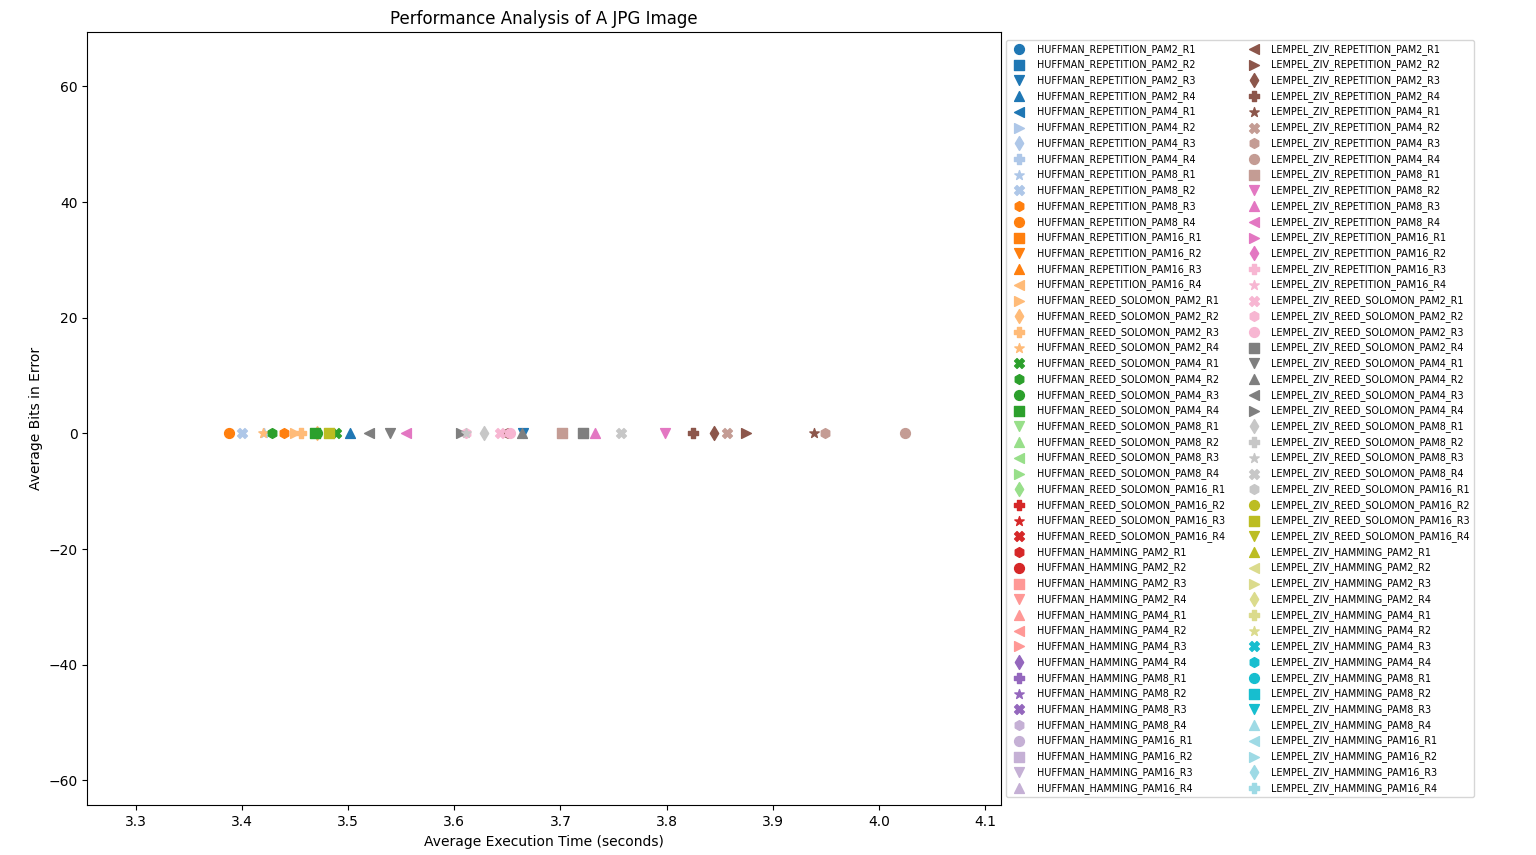
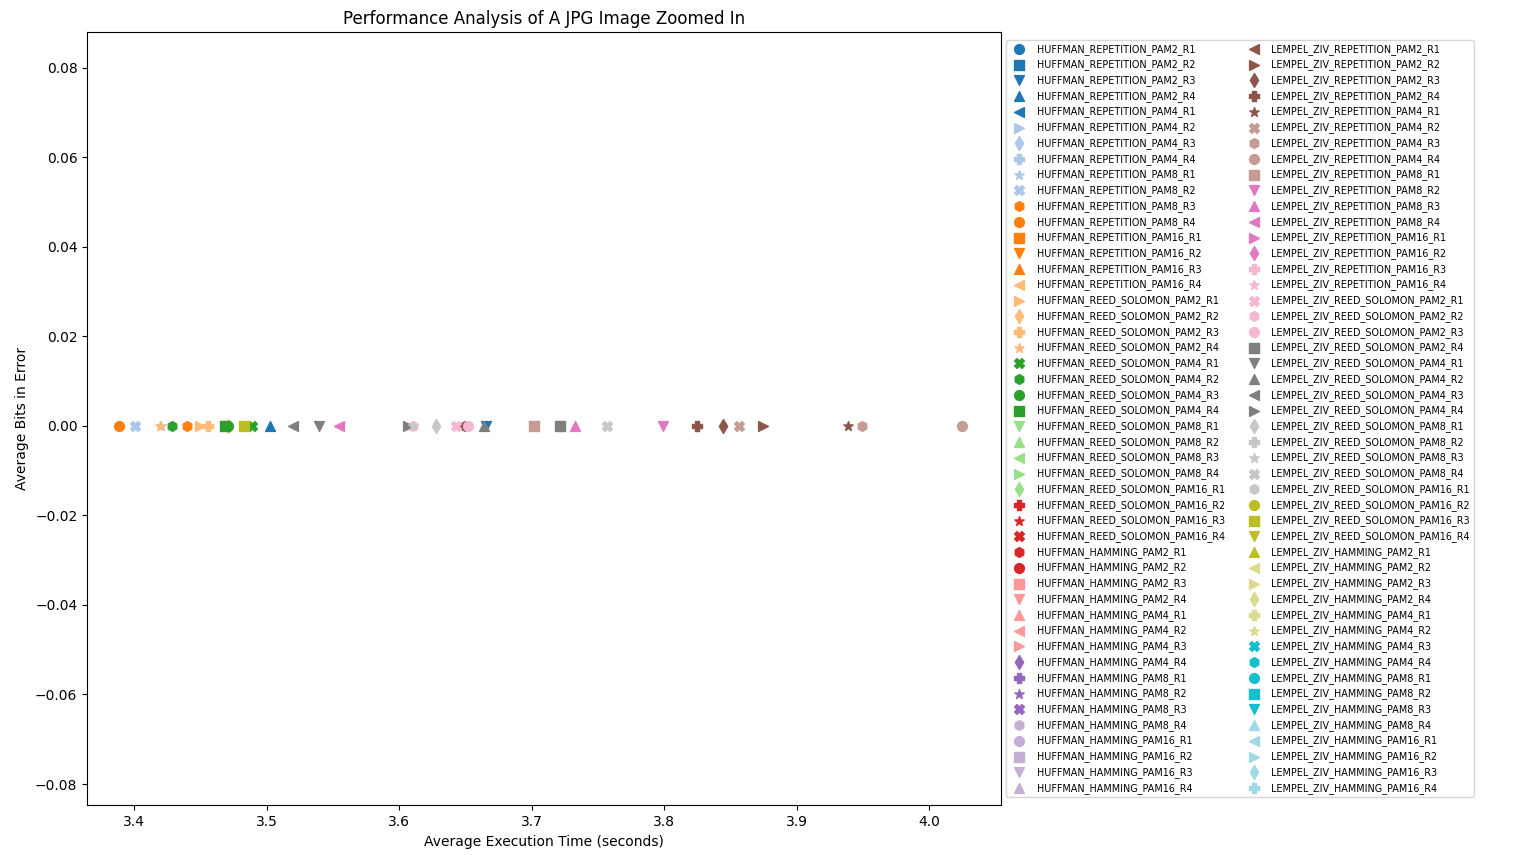
added zoomed in performance analysis graphs

diff --git a/analyze.py b/analyze.py
@@ -95,13 +95,13 @@ def create_scatter_plot(csv_file_path, graph_title):
 print("======")
 print("IMAGE")
 print("======")
-create_scatter_plot('./recieved_files/small_image.jpg_performance.csv', 'Performance Analysis of A JPG Image')
+create_scatter_plot('./recieved_files/small_image.jpg_performance.csv', 'Performance Analysis of A JPG Image Zoomed In')
 print("======")
 print("TEXT")
 print("======")
-create_scatter_plot('./recieved_files/text.txt_performance.csv', 'Performance Analysis of A Text File')
+create_scatter_plot('./recieved_files/text.txt_performance.csv', 'Performance Analysis of A Text File Zoomed In')
 print("======")
 print("HTML")
 print("======")
-create_scatter_plot('./recieved_files/webpage.html_performance.csv', 'Performance Analysis of A HTML File')
+create_scatter_plot('./recieved_files/webpage.html_performance.csv', 'Performance Analysis of A HTML File Zoomed In')
 input("Press Enter to exit...")
